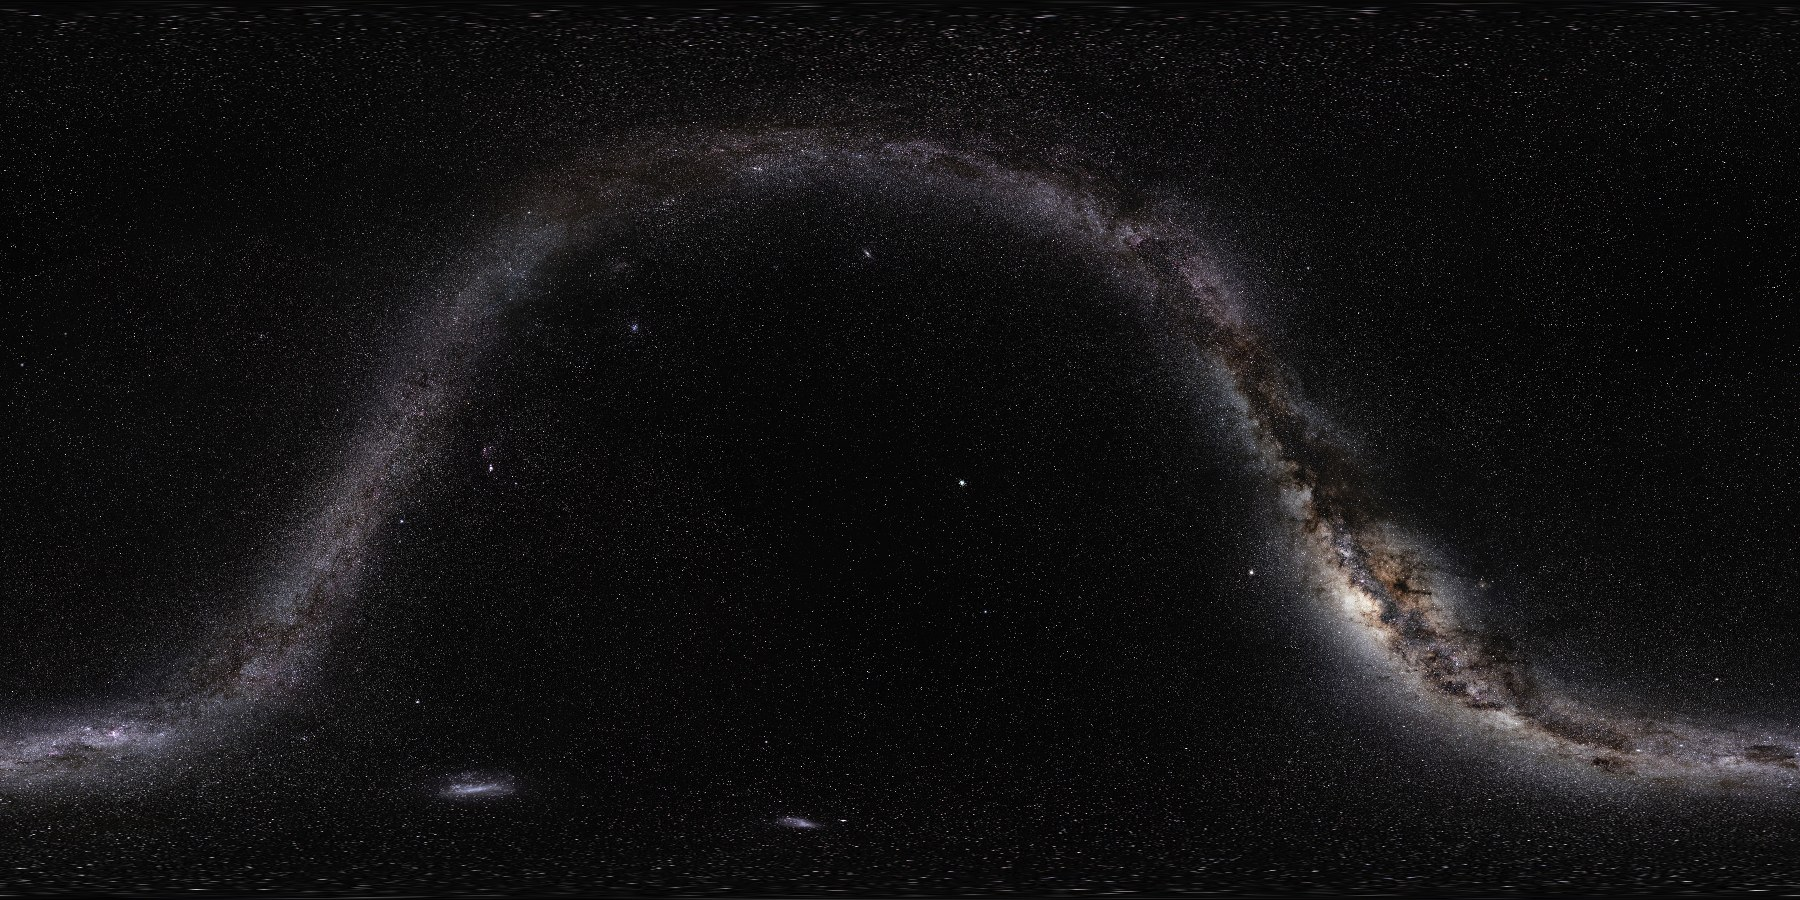
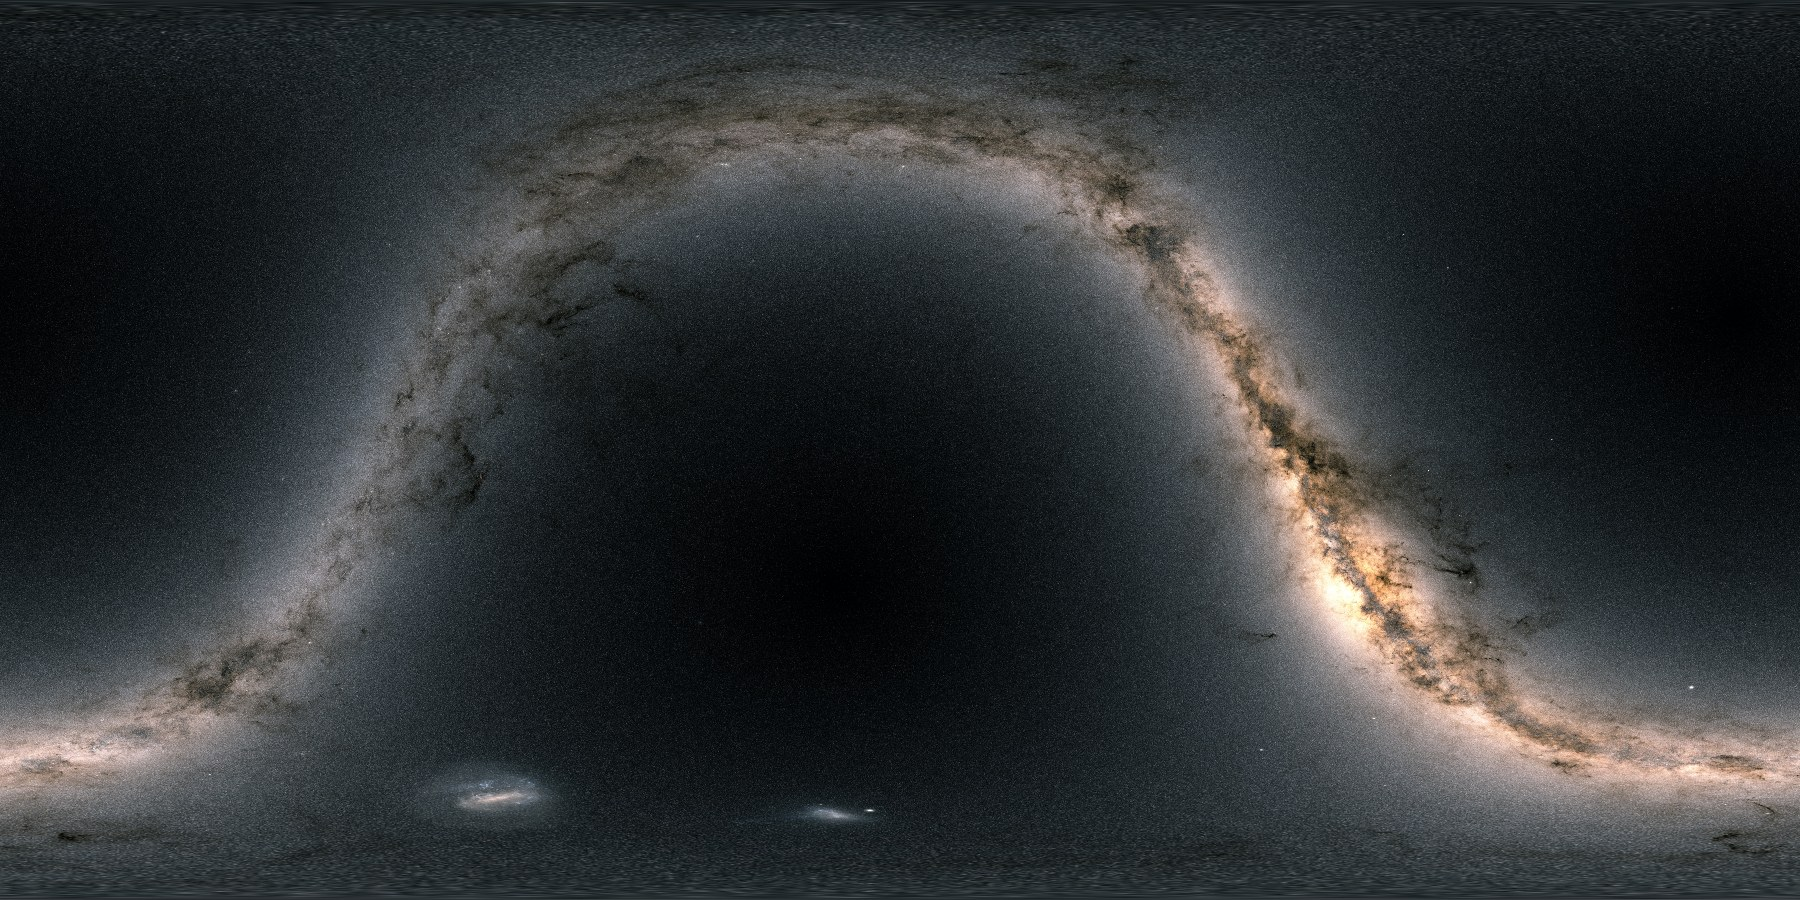
Sky map background is the Gaia all-sky map
Drawn from measured star positions, so objects sit where the coordinates say.
The Magellanic Clouds and M31 land within a pixel of their catalogue positions.

diff --git a/aquila/skymap.py b/aquila/skymap.py
@@ -2,15 +2,16 @@
 # MIT licence: free for anyone to use and modify.
 """Where the dish points on the sky. Pure numpy maths (no astropy): horizon to
 equatorial, equatorial to galactic, the galactic plane track. The background is
-the ESO/S. Brunier Milky Way panorama (CC BY 4.0), reprojected once from galactic
-to equatorial coordinates and shipped with the app, so nothing is downloaded."""
+the ESA Gaia EDR3 all-sky map (ESA/Gaia/DPAC, CC BY-SA 3.0 IGO), drawn from measured
+star positions, reprojected once from galactic to equatorial coordinates and shipped
+with the app, so nothing is downloaded."""
 import math
 import os
 
 import numpy as np
 
 BACKGROUND = os.path.join(os.path.dirname(os.path.abspath(__file__)), "assets", "sky.jpg")
-CREDIT = "Background: ESO/S. Brunier Milky Way panorama (CC BY 4.0)"
+CREDIT = "Background: ESA/Gaia/DPAC all-sky map (CC BY-SA 3.0 IGO)"
 
 RA_NGP, DEC_NGP, L_NCP = math.radians(192.85948), math.radians(27.12825), math.radians(122.93192)
 

diff --git a/README.md b/README.md
@@ -93,4 +93,4 @@ Packaging and the release process are in [docs/PACKAGING.md](docs/PACKAGING.md).
 
 ## Credits
 
-Hydrogen line plots are drawn by [virgo](https://github.com/0xCoto/VIRGO) (GPL-3). The sky map background is the ESO/S. Brunier Milky Way panorama (CC BY 4.0), reprojected to equatorial coordinates.
+Hydrogen line plots are drawn by [virgo](https://github.com/0xCoto/VIRGO) (GPL-3). The sky map background is the ESA Gaia EDR3 all-sky map (ESA/Gaia/DPAC, CC BY-SA 3.0 IGO), reprojected to equatorial coordinates.
